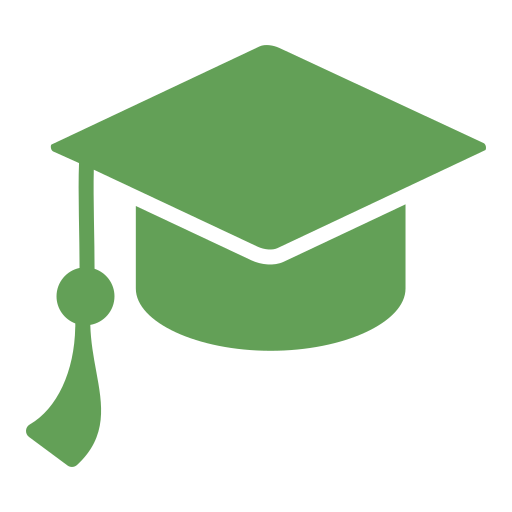
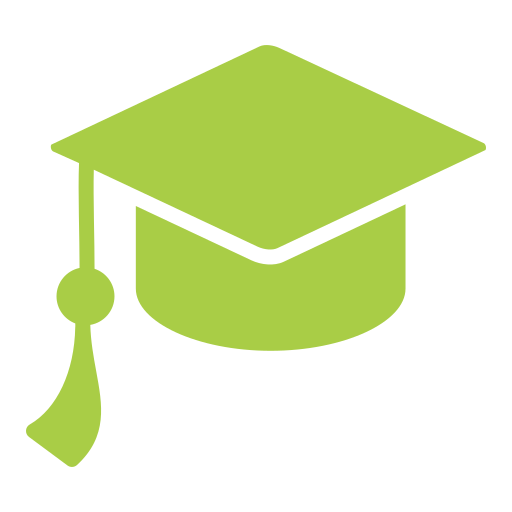
fondo panel

diff --git a/panel.css b/panel.css
@@ -3,17 +3,25 @@
     padding: 0;
     box-sizing: border-box;
 }
+
 @font-face {
     font-family: 'Tamrin';
     src: url('fuentes/tamrin.ttf') format('truetype');
 }
+
 body {
     font-family: 'Tamrin';
     min-height: 100vh;
+    background-image: url("fondo/fondoISFDyT31.jpeg");
+    background-position: center;
+    background-repeat: no-repeat;
+    background-size: 100% auto;
 }
+
 .contenedor {
     display: flex;
 }
+
 .sideBar {
     width: 300px;
     min-height: 100vh;
@@ -23,17 +31,12 @@ body {
     display: flex;
     flex-direction: column;
 }
-.sideBar h1 {
-    text-align: center;
-    font-size: 1.2rem;
-    font-family: 'Tamrin';
-    margin-bottom: 20px;
-    color: #091887;
-}
+
 .sideBar .logo {
     margin-top: 20px;
     margin-bottom: 25px;
 }
+
 .sideBar .logo img {
     width: 70px;
     height: 70px;
@@ -41,9 +44,11 @@ body {
     background: #fff;
     object-fit: cover;
 }
+
 .sideBar nav {
     flex: 1;
 }
+
 .sideBar nav button {
     display: flex;
     align-items: center;
@@ -61,22 +66,22 @@ body {
     border-radius: 8px;
     transition: background 0.2s;
 }
+
 .sideBar nav button:hover {
     background: rgba(255, 255, 255, 0.15);
 }
+
 .contenido {
     flex: 1;
     padding: 30px;
-    background-image: url("fondo/fondoISFDyT31.jpeg");
-    background-position: center;
-    background-repeat: no-repeat;
-    background-size: 100% auto;
+    
 }
 
 /* apartados del panel */
 .formulario {
     display: none;
 }
+
 .formulario.activo {
     display: block;
 }
@@ -103,6 +108,23 @@ body {
 .card-numero {
     font-size: 1.rem;
     color: #a9cd46;
+}
+.imgs {
+    display: flex;
+    align-items: center;
+    gap: 10px;
+    justify-content: center;
+}
+
+.card-icono {
+    width: 32px;
+    height: 32px;
+}
+
+.card-etiqueta {
+    font-size: 14px;
+    opacity: 0.9;
+     margin-top: 5px;
 }
 
 .listados {

diff --git a/panel.php b/panel.php
@@ -30,21 +30,37 @@
             <div id="inicio" class="formulario activo tarjeta">
                 <div class="cards">
                     <div class="card-chica">
-                        <div id = "cantAlumnos" class="card-numero"></div> Socio alumnos
+                        <div class="imgs">
+                            <img src="iconos/usuario-verde.png" alt="Alumnos" class="card-icono">
+                            <div id="cantAlumnos" class="card-numero"></div>
+                        </div>
+                        <span class="card-etiqueta">Socio alumnos</span>
                     </div>
 
                     <div class="card-chica">
-                        <div id = "cantVoluntarios" class="card-numero"></div> Socio voluntarios
+                        <div class="imgs">
+                            <img src="iconos/usuario-verde.png" alt="Voluntarios" class="card-icono">
+                            <div id="cantVoluntarios" class="card-numero"></div>
+                        </div>
+                        <span class="card-etiqueta">Socio voluntarios</span>
                     </div>
 
                     <div class="card-chica">
-                        <div id = "cantCarreras" class="card-numero"></div> Carreras
+                        <div class="imgs">
+                            <img src="iconos/graduacion-verde.png" alt="Carreras" class="card-icono">
+                            <div id="cantCarreras" class="card-numero"></div>
+                        </div>
+                        <span class="card-etiqueta">Carreras</span>
                     </div>
 
                     <div class="card-chica">
-                        <div id = "montoActual" class="card-numero"></div> Cooperadora actual
+                        <div class="imgs">
+                            <img src="iconos/dinero-verde.png" alt="Cooperadora" class="card-icono">
+                            <div id="montoActual" class="card-numero"></div>
+                        </div>
+                        <span class="card-etiqueta">Cooperadora actual</span>
                     </div>
-                </div> 
+                </div>
                 
                 <div class="listados">
                     <div class="card-listado">
@@ -73,18 +89,15 @@
                 <h3>Socios alumnos</h3>
             </div>
 
-
             <!-- Socio voluntarios -->
             <div id="sociosVoluntarios" class="formulario tarjeta">
                 <h3>Socios voluntarios</h3>
             </div>
 
-
             <!-- Carreras-->
             <div id="carreras" class="formulario tarjeta">
                 <h3>Carreras</h3>
             </div>
-
 
             <!-- Cooperadora -->
             <div id="cooperadora" class="formulario tarjeta">
@@ -107,7 +120,7 @@
                     </thead>
                     <tbody id="tablapagos">
                         <tr>
-                            <td colspan="8" class="text-center"></td>
+                            <td colspan="8" class="text-center">Cargando pagos...</td>
                         </tr>
                     </tbody>
                 </table>
